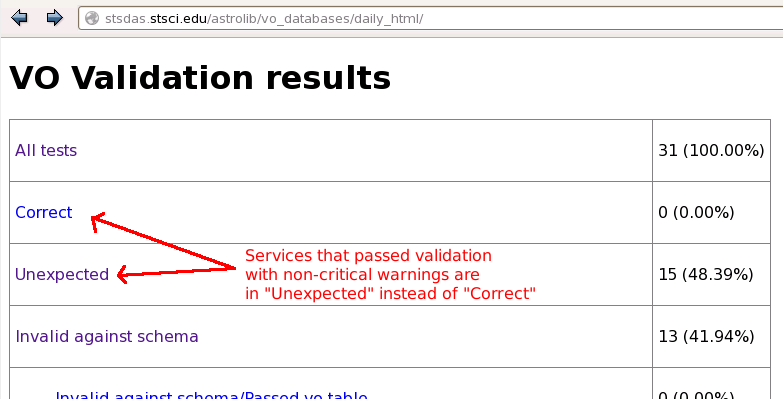
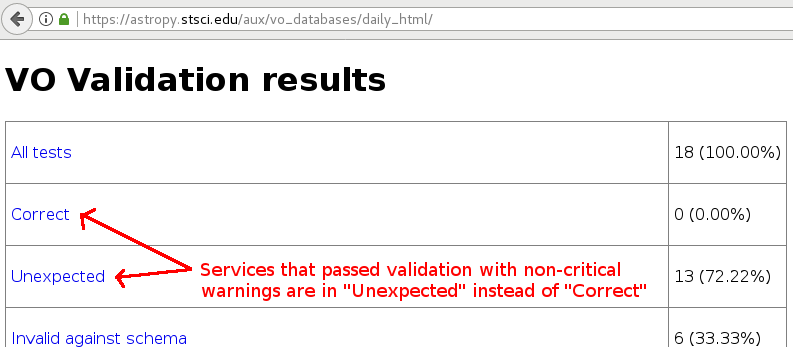
Cone Search to use new URL

diff --git a/astroquery/vo_conesearch/__init__.py b/astroquery/vo_conesearch/__init__.py
@@ -11,7 +11,7 @@ class Conf(_config.ConfigNamespace):
     """
     # Config related to remote database of "reliable" services.
     vos_baseurl = _config.ConfigItem(
-        'http://stsdas.stsci.edu/astrolib/vo_databases/',
+        'https://astropy.stsci.edu/aux/vo_databases/',
         'URL where the VO Service database file is stored.')
     conesearch_dbname = _config.ConfigItem(
         'conesearch_good',

diff --git a/docs/vo_conesearch/client.rst b/docs/vo_conesearch/client.rst
@@ -247,7 +247,7 @@ also see :ref:`Cone Search Examples <vo-sec-scs-examples>`):
 
 >>> from astroquery.vo_conesearch import vos_catalog
 >>> my_db = vos_catalog.get_remote_catalog_db('conesearch_good')
-Downloading http://stsdas.stsci.edu/astrolib/vo_databases/conesearch_good.json
+Downloading https://astropy.stsci.edu/aux/vo_databases/conesearch_good.json
 |==========================================|  37k/ 37k (100.00%)         0s
 >>> print(my_db)
 Guide Star Catalog v2 1
@@ -663,7 +663,7 @@ validation warnings. One should use these sites with caution:
 >>> from astroquery.vo_conesearch import conf
 >>> conf.conesearch_dbname = 'conesearch_warn'
 >>> conesearch.list_catalogs()
-Downloading http://stsdas.stsci.edu/astrolib/vo_databases/conesearch_warn.json
+Downloading https://astropy.stsci.edu/aux/vo_databases/conesearch_warn.json
 |==========================================| 312k/312k (100.00%)         0s
 ['2MASS All-Sky Catalog of Point Sources (Cutri+ 2003) 1',
  'Data release 7 of Sloan Digital Sky Survey catalogs 1',

diff --git a/docs/vo_conesearch/vo_conesearch.rst b/docs/vo_conesearch/vo_conesearch.rst
@@ -108,7 +108,7 @@ List the available Cone Search catalogs that passed daily validation:
 
 >>> from astroquery.vo_conesearch import conesearch
 >>> conesearch.list_catalogs()
-Downloading http://stsdas.stsci.edu/astrolib/vo_databases/conesearch_good.json
+Downloading https://astropy.stsci.edu/aux/vo_databases/conesearch_good.json
 |==========================================|  37k/ 37k (100.00%)         0s
 ['Guide Star Catalog v2 1',
  'SDSS DR8 - Sloan Digital Sky Survey Data Release 8 1',
@@ -202,7 +202,7 @@ See Also
 
 - `STScI VAO Registry <http://vao.stsci.edu/directory/NVORegInt.asmx?op=VOTCapabilityPredOpt>`_
 
-- `STScI VO Databases <http://stsdas.stsci.edu/astrolib/vo_databases/>`_
+- `STScI VO Databases <https://astropy.stsci.edu/aux/vo_databases/>`_
 
 
 Reference/API
